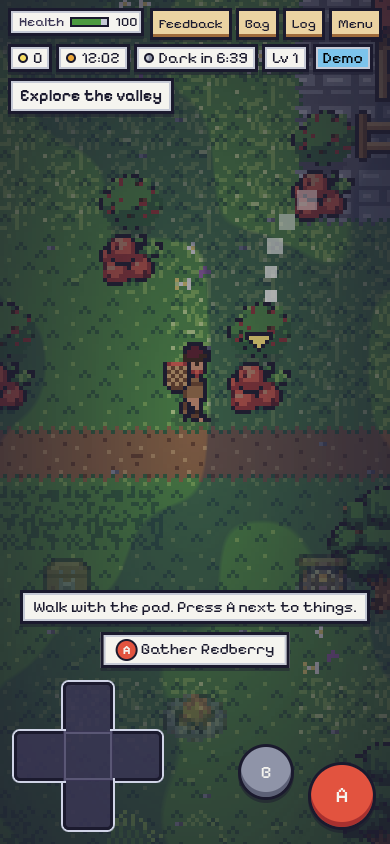
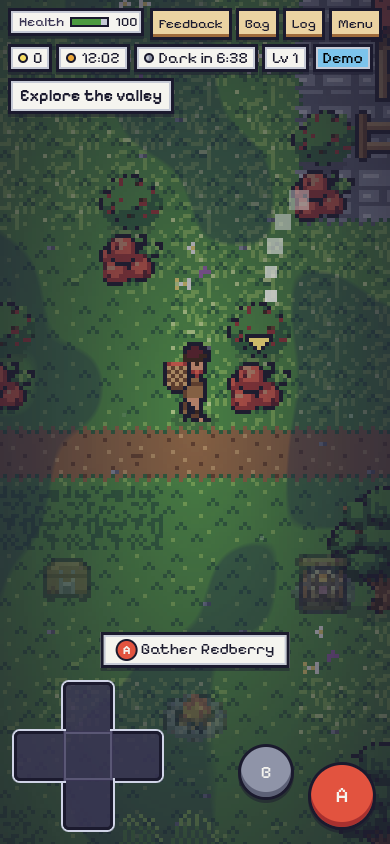
feat(client): the sky keeps its own weight by the day
The owner asked for variety: sometimes no clouds, sometimes one, sometimes
many, and less of them than the first cut carried.

cloudCover(day) is a slow pure curve over the days, leaning clear: about four
days in ten carry nothing, a third one cloud, a quarter a few, and a heavy sky
is the rarer day. Four patches are baked once for the four weights and the
scene swaps a texture when the day's weight changes, hiding the layer on a
clear day. The cover also sets how much of the patch the field inks, so a thin
day keeps only the tops of its clouds. `?debug&cloud=0..3` pins a weight for a
still or a test.

diff --git a/game/src/scenes/world.ts b/game/src/scenes/world.ts
@@ -49,7 +49,7 @@ import { HOLE, LIGHT_POOL, dappleAt, duskAt, frameAt, nightAt, shadeAt } from '.
 import { STONE_GLIDE_MS, STONE_STEPS, type StoneView, stoneView } from '../stone';
 import { type Clear, mistClears, mistDensity, mistPixels, mistRadius, mistStep, moteAt } from '../mist';
 import { FOG_ATLAS, FOG_ATLAS_W, FOG_FEATHER, FOG_OFFSETS, FOG_TILE, fogPixels } from '../fog';
-import { AIR_DENSITY, BANK_DRIFT, BANK_TILE, CLOUD_TILE, bankPixels, cloudOffset, cloudPixels, fogStrength } from '../sky';
+import { AIR_DENSITY, BANK_DRIFT, BANK_TILE, CLOUD_BUCKETS, CLOUD_TILE, bankPixels, cloudBucket, cloudCover, cloudOffset, cloudPixels, fogStrength } from '../sky';
 import { DIRS, type Dir } from '../input';
 import { ECHOES, WHISPERS, pickOf } from '../lore';
 import { TOO_DARK, feedTooLate, fireLow, fireName, readable, woodToFeed } from '../fires';
@@ -304,6 +304,10 @@ export class WorldScene extends Phaser.Scene {
   private fogs: Phaser.GameObjects.Image[] = [];
   /** the cloud shade over the ground by day, one patch repeated, and the fog banks that lie in the valley (sky.ts) */
   private clouds: Phaser.GameObjects.Image[] = [];
+  /** the sky's weight today: an index into CLOUD_BUCKETS, and 0 is a clear day with the patches hidden */
+  private cloudDay = -1;
+  /** a sky picked by `?debug&cloud=0..3`, for a still or a test; unset in play */
+  private cloudForce: number | null = null;
   private banks: { spr: Phaser.GameObjects.TileSprite; drift: number; at: number }[] = [];
   private fogMotes: Emitter[] = [];
   private dapples: Phaser.GameObjects.TileSprite[] = [];
@@ -1305,16 +1309,24 @@ export class WorldScene extends Phaser.Scene {
     // both textures are baked at the world's own density, so a texel lands on a screen pixel and no shape is
     // drawn twice its size; a tile is then a quarter of its own pixels, which tileScale says
     const side = CLOUD_TILE * AIR_DENSITY;
-    const cloudTex = this.textures.createCanvas('fx-cloud', side, side);
-    if (cloudTex) {
-      const img = cloudTex.getContext().createImageData(side, side);
-      img.data.set(cloudPixels(side));
-      cloudTex.getContext().putImageData(img, 0, 0);
-      cloudTex.refresh();
+    // one patch per weight of sky, so a clear day has none, a still day one, and a heavy day many
+    CLOUD_BUCKETS.forEach((cover, k) => {
+      const tex = this.textures.createCanvas(`fx-cloud-${k}`, side, side);
+      if (!tex) return;
+      const img = tex.getContext().createImageData(side, side);
+      img.data.set(cloudPixels(side, cover));
+      tex.getContext().putImageData(img, 0, 0);
+      tex.refresh();
+    });
+    if (new URLSearchParams(location.search).has('debug')) {
+      const asked = Number(new URLSearchParams(location.search).get('cloud'));
+      if (Number.isInteger(asked) && asked >= 0 && asked < CLOUD_BUCKETS.length) this.cloudForce = asked;
+    }
+    if (this.textures.exists('fx-cloud-0')) {
       // three by three copies of one patch: a tile sprite drew its overlapping edge twice and doubled the shade
       for (let j = 0; j < 3; j++) {
         for (let i = 0; i < 3; i++) {
-          const img = this.add.image(0, 0, 'fx-cloud').setOrigin(0).setScale(1 / AIR_DENSITY).setDepth(DEPTH.flat - 0.3).setAlpha(0);
+          const img = this.add.image(0, 0, 'fx-cloud-0').setOrigin(0).setScale(1 / AIR_DENSITY).setDepth(DEPTH.flat - 0.3).setAlpha(0);
           this.clouds.push(img);
         }
       }
@@ -2108,7 +2120,15 @@ export class WorldScene extends Phaser.Scene {
     for (const d of this.dapples) d.setAlpha(dappleAt(this.night));
     // the cloud shade goes with the sun; the banks gather before dawn and after dusk (sky.ts)
     const fog = fogStrength(minute);
-    for (const c of this.clouds) c.setAlpha(1 - this.night);
+    // the day's own sky: clear on some days, one cloud on others, heavy on a few
+    const day = Math.floor(s.tick / this.b.params.day_length_ms);
+    const k = this.cloudForce ?? cloudBucket(cloudCover(day));
+    if (k !== this.cloudDay) {
+      this.cloudDay = k;
+      for (const c of this.clouds) c.setTexture(`fx-cloud-${k}`);
+    }
+    const clear = k === 0 ? 0 : 1 - this.night;
+    for (const c of this.clouds) c.setAlpha(clear);
     // the banks keep their pale tone through the dark, so the night's one shade does not swallow them
     const weight = [0.9, 0.7, 1];
     this.banks.forEach((b, i) => b.spr.setAlpha(Math.min(0.95, fog * (weight[i] ?? 0.9) * (1 + 0.4 * this.night))));

diff --git a/game/src/sky.ts b/game/src/sky.ts
@@ -9,8 +9,6 @@ import { T } from './config';
 export const CLOUD_TILE = 192;
 /** The ink over the ground: `#1b1a2e` at 12% at a cloud's rim and 28% through its heart, so the shape reads. */
 export const CLOUD_ALPHA = Math.round(0.34 * 255);
-/** The rim's share of `CLOUD_ALPHA`, at the very edge of a cloud. */
-export const CLOUD_RIM = 0.43;
 /** Art pixels a screen pixel: the world camera runs at four, so a texture is baked at this density to stay sharp. */
 export const AIR_DENSITY = 4;
 /** How the patch drifts, art pixels a second: a slow cross-wind, the same one the fire leans with. */
@@ -40,21 +38,42 @@ export function cloudField(x: number, y: number, size = CLOUD_TILE): number {
  * One patch of cloud shade as RGBA bytes: the ink at `CLOUD_ALPHA` through the middle of a cloud, thinning over
  * the last fifth of its edge so the shape has no cut line. A patch tiles with itself on all four sides.
  */
-export function cloudPixels(size = CLOUD_TILE * AIR_DENSITY): Uint8ClampedArray<ArrayBuffer> {
+/** How much of the sky a day carries, at the four weights the scene bakes: clear, one cloud, a few, a heavy sky. */
+export const CLOUD_BUCKETS = [0, 0.3, 0.55, 0.8] as const;
+
+/**
+ * The sky's own cover over the days, 0 to 1: slow weather the player can feel without a forecast. Some days
+ * are clear, some carry one cloud, some are heavy. A pure function of the day number, so a reload keeps the sky.
+ */
+export function cloudCover(day: number): number {
+  const v = 0.5 + 0.32 * Math.sin(day * 0.5 + 0.4) + 0.18 * Math.sin(day * 0.21 + 2.1) + 0.1 * Math.sin(day * 1.1 + 0.9);
+  // leaning clear: a heavy sky is the rarer day, and half the valley's days carry no cloud at all
+  return Math.min(1, Math.max(0, v * 1.05 - 0.16));
+}
+
+/** The bucket a day's cover falls in: the index into `CLOUD_BUCKETS`, and the baked patch that goes with it. */
+export function cloudBucket(cover: number): number {
+  let k = 0;
+  for (let i = 1; i < CLOUD_BUCKETS.length; i++) if (cover >= CLOUD_BUCKETS[i]!) k = i;
+  return k;
+}
+
+/** One patch of cloud shade at a given cover, 0 (clear sky) to 1 (a heavy sky). */
+export function cloudPixels(size = CLOUD_TILE * AIR_DENSITY, cover = 0.6): Uint8ClampedArray<ArrayBuffer> {
   const out = new Uint8ClampedArray(new ArrayBuffer(size * size * 4));
+  // more cover, a lower bar for the field: a thin sky keeps only the tops of the clouds
+  const bar = 0.86 - 0.5 * Math.min(1, Math.max(0, cover));
   for (let y = 0; y < size; y++) {
     for (let x = 0; x < size; x++) {
       const f = cloudField(x, y, size);
-      // a wider sky under cloud than the field's own half, so a cloud is met often and its edge is a ramp
       // a shade has an edge, not a fog: one step in, and a rim of two hundredths of the field to soften it
-      const edge = Math.min(1, Math.max(0, (f - 0.5) / 0.02));
+      const edge = Math.min(1, Math.max(0, (f - bar) / 0.02));
       if (edge <= 0) continue;
-      const heart = 1;
       const i = 4 * (y * size + x);
       out[i] = INK[0];
       out[i + 1] = INK[1];
       out[i + 2] = INK[2];
-      out[i + 3] = Math.round(CLOUD_ALPHA * edge * (CLOUD_RIM + (1 - CLOUD_RIM) * heart));
+      out[i + 3] = Math.round(CLOUD_ALPHA * edge);
     }
   }
   return out;

diff --git a/game/test/sky.test.ts b/game/test/sky.test.ts
@@ -1,5 +1,5 @@
 import { describe, expect, it } from 'vitest';
-import { AIR_DENSITY, BANK_ALPHA, BANK_RGB, BANK_TILE, CLOUD_ALPHA, CLOUD_TILE, bankPixels, cloudField, cloudOffset, cloudPixels, fogStrength } from '../src/sky';
+import { AIR_DENSITY, BANK_ALPHA, BANK_RGB, BANK_TILE, CLOUD_ALPHA, CLOUD_BUCKETS, CLOUD_TILE, bankPixels, cloudBucket, cloudCover, cloudField, cloudOffset, cloudPixels, fogStrength } from '../src/sky';
 
 /** The alpha and colour of one pixel of an RGBA buffer. */
 function at(buf: Uint8ClampedArray, w: number, x: number, y: number): [number, number, number, number] {
@@ -13,7 +13,7 @@ describe('the cloud shade', () => {
     for (const x of [0, 17, 64, 127]) expect(cloudField(x, 0)).toBeCloseTo(cloudField(x, CLOUD_TILE), 6);
   });
 
-  it('is ink at 15 percent through a cloud, thinning at its rim, never above its own alpha', () => {
+  it('is ink at 34 percent inside a cloud with a thin rim, never above its own alpha', () => {
     const side = CLOUD_TILE * AIR_DENSITY;
     const px = cloudPixels();
     expect(px.length).toBe(side * side * 4);
@@ -32,10 +32,24 @@ describe('the cloud shade', () => {
     }
     // a cloud covers a share of the patch, not all of it and not none, and its edge is a ramp rather than a cut
     const share = covered / (side * side);
-    expect(share).toBeGreaterThan(0.15);
+    expect(share).toBeGreaterThan(0.1);
     expect(share).toBeLessThan(0.6);
     // the rim is thin: a shade has an edge, so only a little of the patch is between ink and clear
     expect(soft / covered).toBeLessThan(0.15);
+  });
+
+  it('carries fewer clouds on a still day and more on a heavy one', () => {
+    const side = CLOUD_TILE * AIR_DENSITY;
+    const inked = (cover: number) => {
+      const px = cloudPixels(side, cover);
+      let n = 0;
+      for (let i = 3; i < px.length; i += 4) if (px[i]! > 0) n++;
+      return n;
+    };
+    // a clear sky keeps only a wisp or two, and the scene hides even that on a clear day
+    expect(inked(0)).toBeLessThan(side * side * 0.05);
+    expect(inked(0.3)).toBeLessThan(inked(0.55));
+    expect(inked(0.55)).toBeLessThan(inked(0.8));
   });
 
   it('drifts on one wind, moving a little more every second', () => {
@@ -44,6 +58,23 @@ describe('the cloud shade', () => {
     expect(a).toEqual({ x: 0, y: 0 });
     expect(b.x).toBeGreaterThan(a.x);
     expect(b.y).toBeGreaterThan(a.y);
+  });
+});
+
+describe('the sky over the days', () => {
+  it('has clear days, single-cloud days and heavy days, and moves slowly', () => {
+    const days = Array.from({ length: 120 }, (_, d) => cloudCover(d));
+    expect(Math.min(...days)).toBe(0);
+    expect(Math.max(...days)).toBeGreaterThan(0.8);
+    const buckets = new Set(days.map(cloudBucket));
+    expect(buckets.size).toBe(CLOUD_BUCKETS.length);
+    for (let d = 0; d < days.length - 1; d++) expect(Math.abs(days[d + 1]! - days[d]!)).toBeLessThan(0.35);
+  });
+
+  it('leans clear: most days carry no cloud or one' , () => {
+    const days = Array.from({ length: 120 }, (_, d) => cloudCover(d));
+    const quiet = days.filter((c) => cloudBucket(c) <= 1).length;
+    expect(quiet / days.length).toBeGreaterThan(0.5);
   });
 });
 

diff --git a/DECISIONS.md b/DECISIONS.md
@@ -1943,7 +1943,7 @@ As built, the two reads travel with the reply: the list of appear nodes that sta
 ## 2026-10-20 ✅ The air over the valley: cloud shade by day, fog banks at dawn and at night (the owner's pick of three stills)
 
 The owner asked for fog and clouds carried as far as *Graveyard Keeper* carries them. Three phone stills were put to him at 390x844, each one named difference and each captured from the built game (`docs/design/frames/2026-10-20-air-clouds.png`, `-dawn.png`, `-night.png`): **A** one patch of cloud shade crossing the ground by day, **B** two and then three pale dithered banks lying in the valley before dawn, **C** the same banks at night with the lantern's pool cut through them. He answered: keep all three as they are, and go on sharpening them. So the direction is the three together, and the numbers below are the compass until he says otherwise.
-As built on `feat/fog-clouds` (`game/src/sky.ts`, pure, and `game/src/scenes/world.ts`): the shade is `#172a52` at 34% in one step, with a two-hundredths rim to soften the cut (STYLE section 7 asks for `#1b1a2e` at 12%, which on this palette read as nothing at phone size; the owner's first note was that the clouds never showed), a 192-unit patch of three wrapped harmonics repeated three by three and anchored in the world, drifting 1.7 units right and 0.55 down a second, gone as the night comes. The banks are three bands 6, 2 and 4 tiles tall at 22%, 46% and 64% of the view, a **pale veil rather than a dither**: `#f5f4ef` at its heart over a `#c6cad6` rim, up to 80% of its own alpha, brightest in the middle and gone at the rim, their centre line wandering along the length so neither edge is straight, drifting 2.2, 3.1 and 3.6 px a second. He saw the first cut of them as dots and said the fog was coarse and read as smoke: hence the veil and the near-white, and hence both textures are baked at the world's own density of four so a texel lands on a screen pixel instead of a block of four. `fogStrength(minute)` gathers them before 05:30, clears them at midday and brings them back after dusk, and they lift their own weight at night rather than sitting darker. Both layers sit under the mist's veil, so the stencil that keeps the haze off the player keeps them off too, and reduced motion (`RICH.motion` off) keeps the banks and loses only their drift.
+As built on `feat/fog-clouds` (`game/src/sky.ts`, pure, and `game/src/scenes/world.ts`): the shade is `#172a52` at 34% in one step, with a two-hundredths rim to soften the cut (STYLE section 7 asks for `#1b1a2e` at 12%, which on this palette read as nothing at phone size; the owner's first note was that the clouds never showed), a 192-unit patch of three wrapped harmonics repeated three by three and anchored in the world, drifting 1.7 units right and 0.55 down a second, gone as the night comes. The banks are three bands 6, 2 and 4 tiles tall at 22%, 46% and 64% of the view, a **pale veil rather than a dither**: `#f5f4ef` at its heart over a `#c6cad6` rim, up to 80% of its own alpha, brightest in the middle and gone at the rim, their centre line wandering along the length so neither edge is straight, drifting 2.2, 3.1 and 3.6 px a second. He saw the first cut of them as dots and said the fog was coarse and read as smoke: hence the veil and the near-white, and hence both textures are baked at the world's own density of four so a texel lands on a screen pixel instead of a block of four. `fogStrength(minute)` gathers them before 05:30, clears them at midday and brings them back after dusk, and they lift their own weight at night rather than sitting darker. The sky itself has a weight by the day: `cloudCover(day)` is a slow pure curve over the days (leaning clear, so about four days in ten carry nothing, a third carry one cloud, a quarter carry a few, and a heavy sky is the rarer day), and four patches are baked once for the four weights, so the scene only swaps a texture when the day's weight changes. `?debug&cloud=0..3` pins a weight for a still or a test. Both layers sit under the mist's veil, so the stencil that keeps the haze off the player keeps them off too, and reduced motion (`RICH.motion` off) keeps the banks and loses only their drift.
 **Not built, and next if he wants it:** fog that pools in hollows and by water rather than in bands across the view, a bank that lifts as the sun climbs instead of thinning, and rain or snow, which is weather and needs a rule of its own (G48 keeps weather off a burn, so it is not a look-only change).
 **Retry when:** the banks hide a wolf's eyes or a hazard before it is read (then they thin or go behind the light direction), or a mid phone drops frames with the three bands in view (then they fall behind `RICH.light` alone rather than all three).
 **Model:** claude-opus-5-5.
